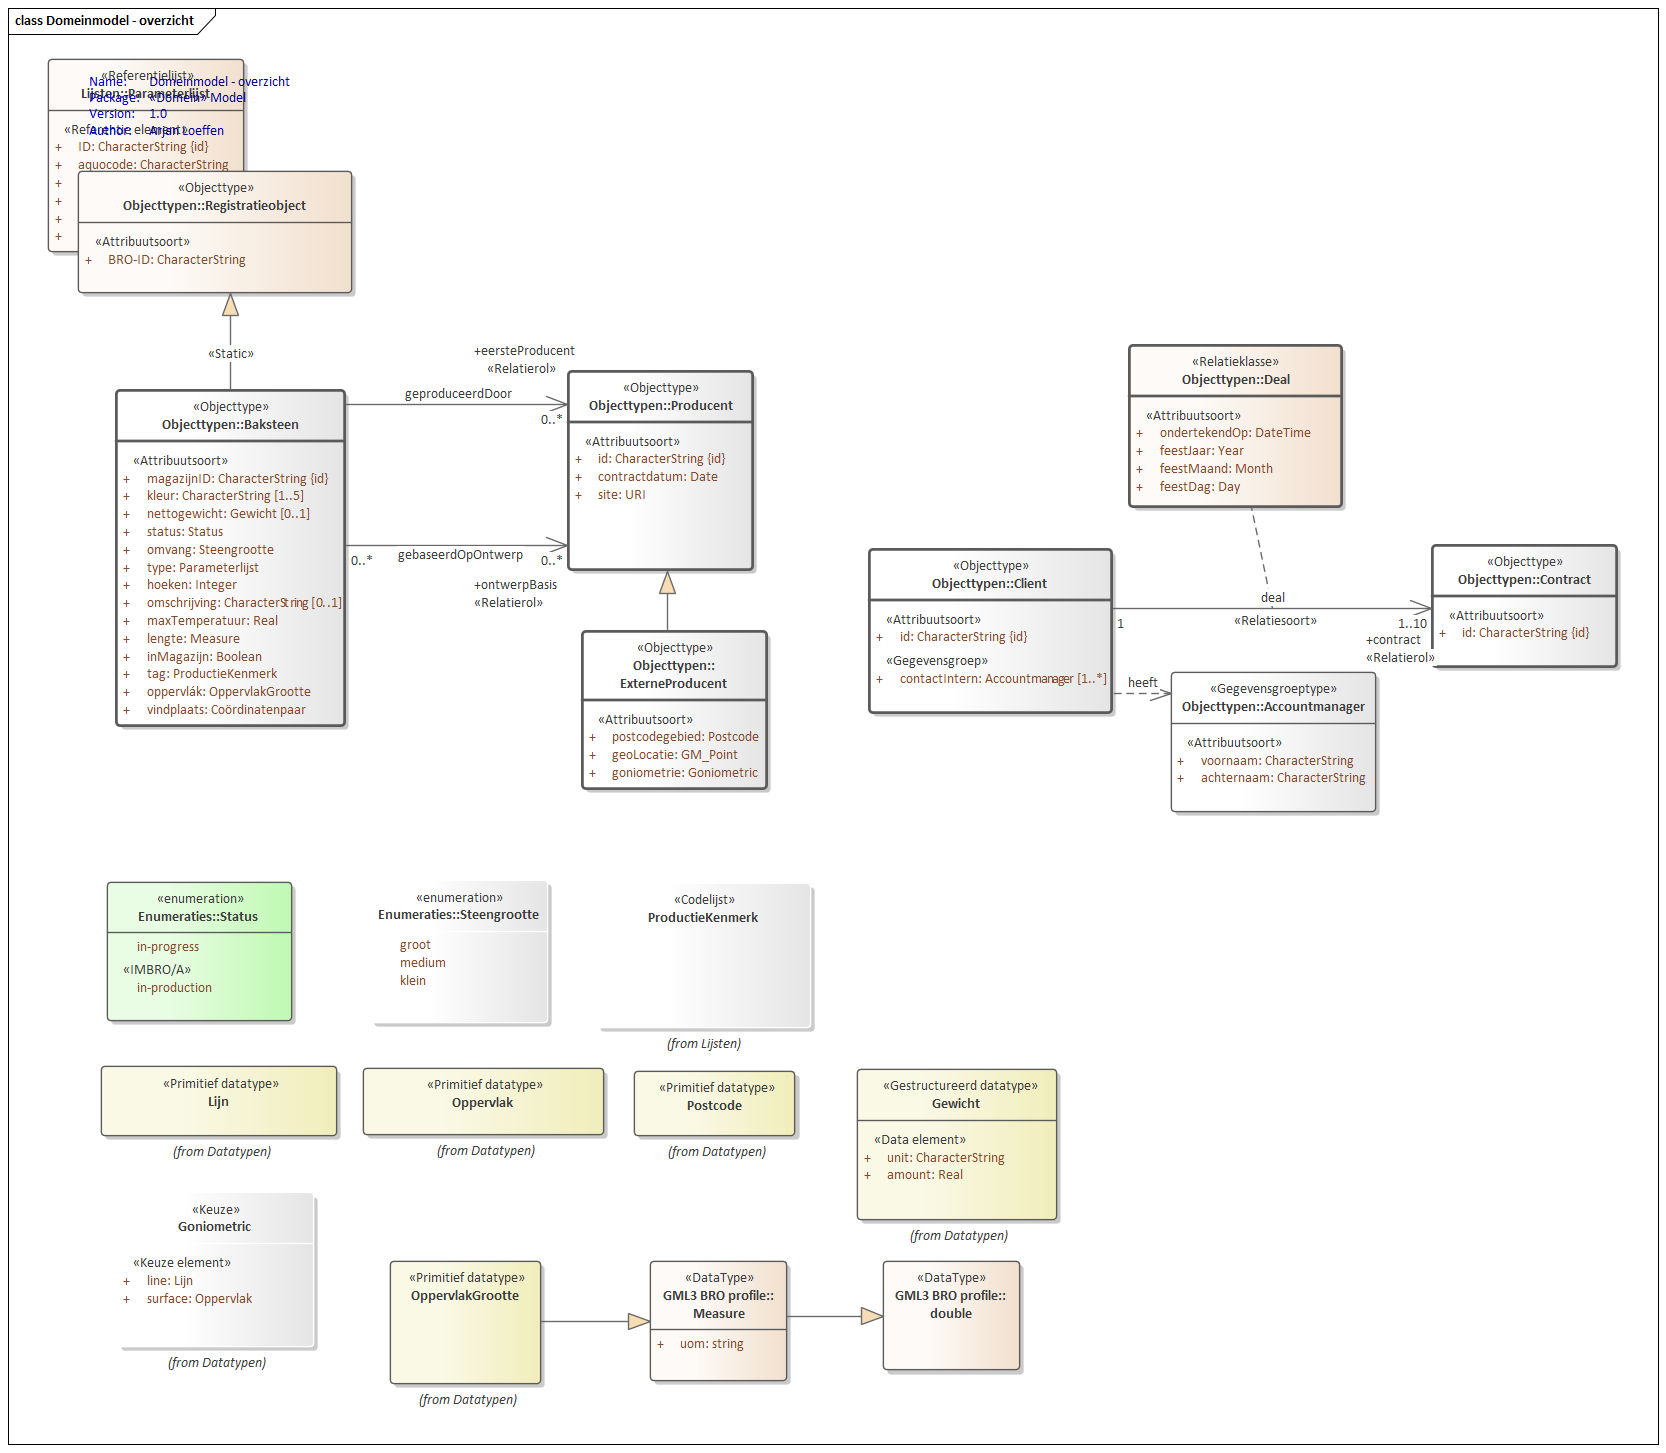
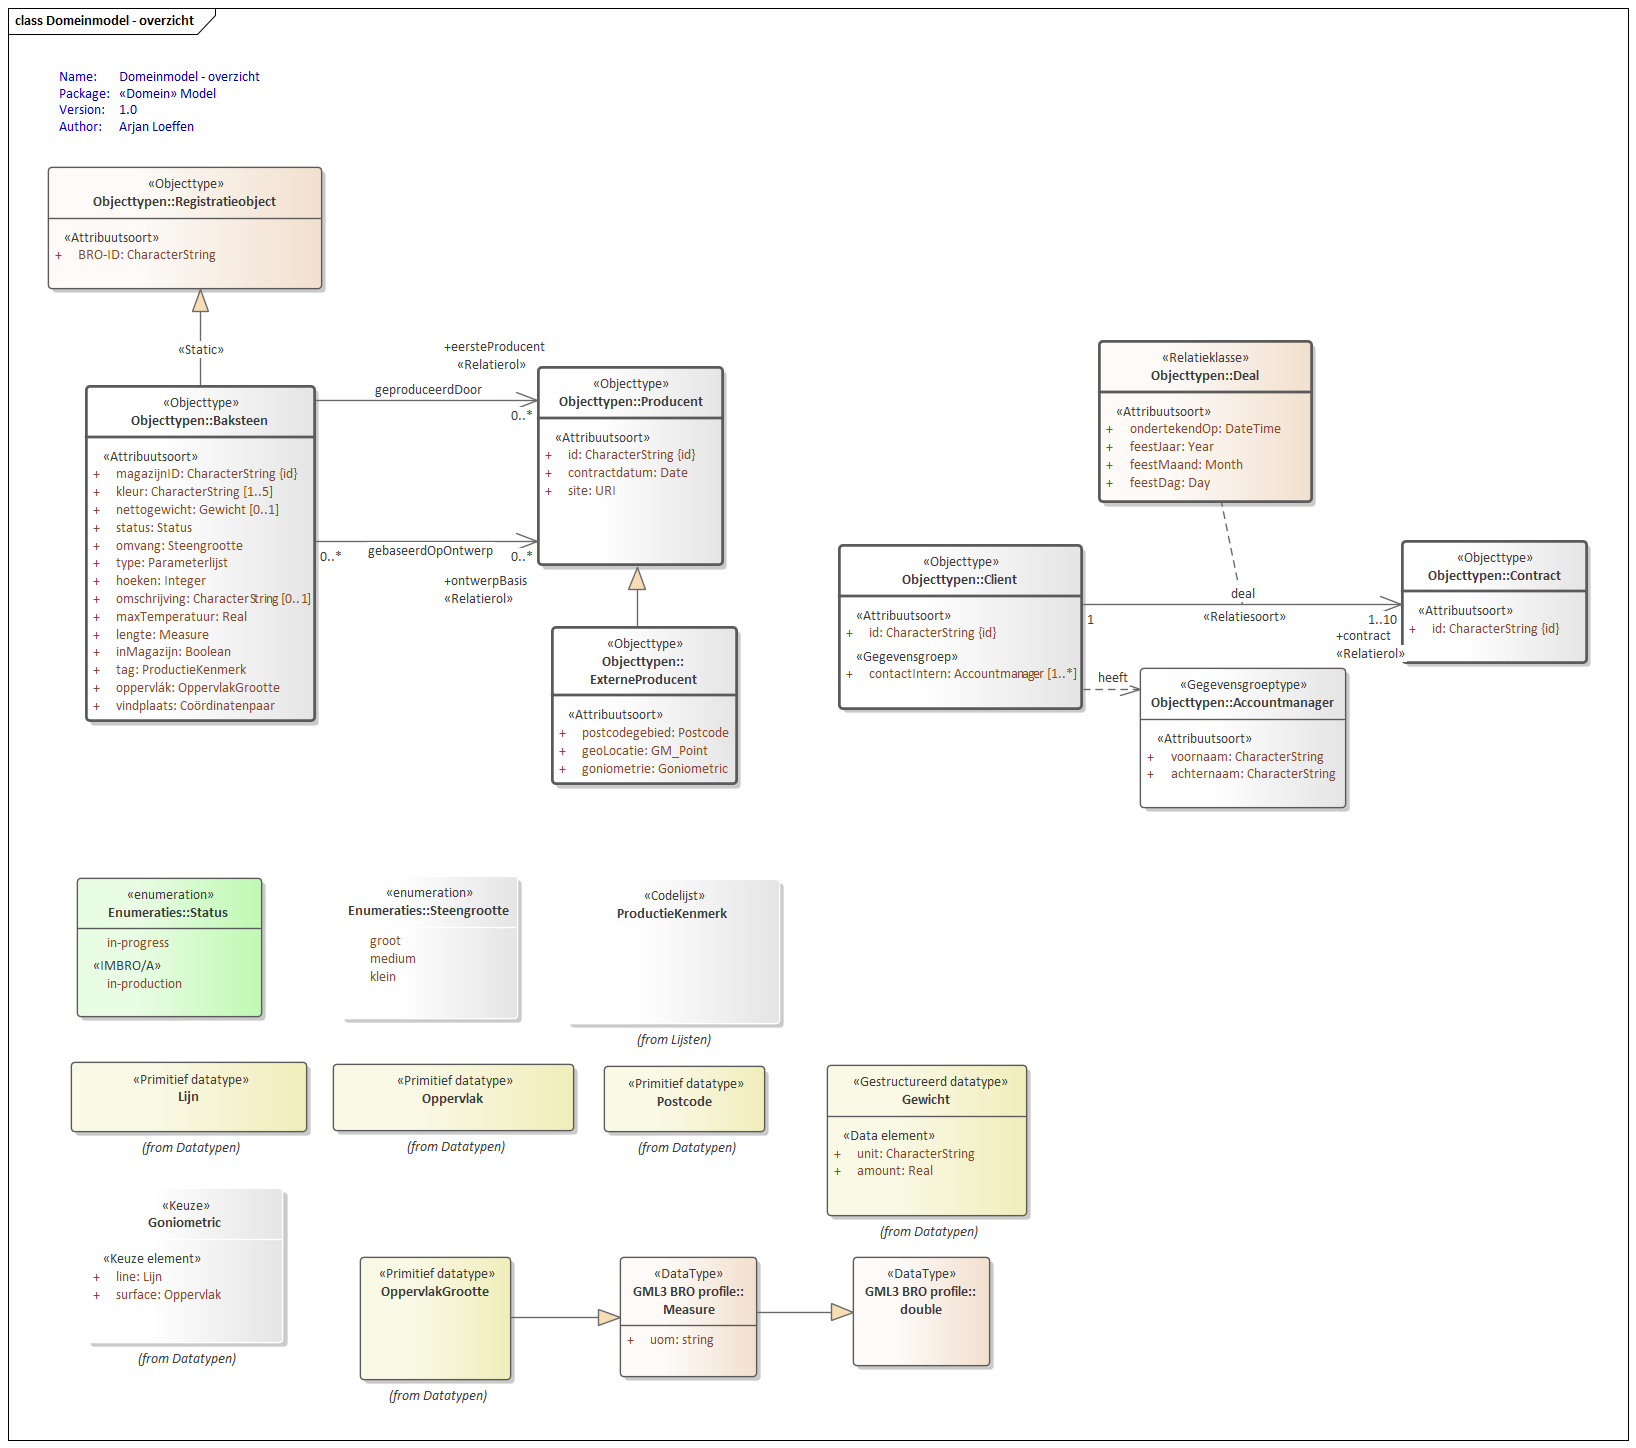
Conceptualmodel-SampleBaseSAMPLE-1.0.0-2-20130318-20200304-163814

diff --git a/data/SAMPLE-cat.msword.html b/data/SAMPLE-cat.msword.html
@@ -12,8 +12,8 @@
                 </style></head>
    <body>
       <p>Conceptual model/SampleBase (SAMPLE)/20130318</p>
-      <p>Imvertor: 1.59.3</p>
-      <p>Model release: Conceptualmodel-SampleBaseSAMPLE-1.0.0-2-20130318-20200304-115606</p>
+      <p>Imvertor: 1.59.2.20200304</p>
+      <p>Model release: Conceptualmodel-SampleBaseSAMPLE-1.0.0-2-20130318-20200304-163814</p>
       <hr>
       <section>
          <h1>Artikel 1 Definitie van registratieobject, entiteiten en attributen</h1>
@@ -54,17 +54,16 @@
             <h2>Het domeinmodel</h2>
             <section id="">
                <div class="imageinfo overview"><img src="Images/EAID_08513AA0_8A50_46c1_AD86_9B80D9A6AAE1.png" usemap="#imagemap-EAID_08513AA0_8A50_46c1_AD86_9B80D9A6AAE1" alt="Diagram Overzicht van alle constructies in dit conceptuele model."><map name="imagemap-EAID_08513AA0_8A50_46c1_AD86_9B80D9A6AAE1">
-                     <area shape="rect" alt="Registratieobject" coords="78,171,352,293" href="#graph_EAID_9E9289AB_19E6_48af_87FD_8BC9E0875C28">
-                     <area shape="rect" alt="ProductieKenmerk" coords="596,883,811,1028" href="#graph_EAID_4D78F0AD_88ED_44ef_9A76_163426CD74D1">
-                     <area shape="rect" alt="Steengrootte" coords="370,880,548,1023" href="#graph_EAID_65363897_E229_41fd_BE6F_E6B1BACAD458">
-                     <area shape="rect" alt="Accountmanager" coords="1171,672,1376,812" href="#graph_EAID_29D6B892_B943_494c_94C7_A13DB031E998">
-                     <area shape="rect" alt="Status" coords="107,882,292,1021" href="#graph_EAID_E86D21EE_58FD_4975_9CCB_AFF2434704A8">
-                     <area shape="rect" alt="ExterneProducent" coords="582,631,767,789" href="#graph_EAID_E2C93214_90E2_4151_B719_7BB8CDF8679F">
-                     <area shape="rect" alt="Baksteen" coords="116,390,345,726" href="#graph_EAID_CF7C4448_E50C_4c7a_B1D0_C4FCB2EB1814">
-                     <area shape="rect" alt="Producent" coords="568,371,753,570" href="#graph_EAID_04EED45C_4D30_41b9_83EE_65237E1F8E27">
-                     <area shape="rect" alt="Contract" coords="1432,545,1617,667" href="#graph_EAID_77987690_1141_457d_A33B_E1C7AA1EA812">
-                     <area shape="rect" alt="Client" coords="869,549,1112,713" href="#graph_EAID_DF955A82_3E49_4c9d_9C0C_74738600FE1B">
-                     <area shape="rect" alt="Parameterlijst" coords="48,59,244,252" href="#graph_EAID_44AEBC38_4744_431f_B31C_D809E3AA7D52"></map><p><b>Domeinmodel</b> — Overzicht van alle constructies in dit conceptuele model.
+                     <area shape="rect" alt="Registratieobject" coords="48,167,322,289" href="#graph_EAID_9E9289AB_19E6_48af_87FD_8BC9E0875C28">
+                     <area shape="rect" alt="ProductieKenmerk" coords="565,879,780,1024" href="#graph_EAID_4D78F0AD_88ED_44ef_9A76_163426CD74D1">
+                     <area shape="rect" alt="Steengrootte" coords="340,876,518,1019" href="#graph_EAID_65363897_E229_41fd_BE6F_E6B1BACAD458">
+                     <area shape="rect" alt="Accountmanager" coords="1140,668,1346,808" href="#graph_EAID_29D6B892_B943_494c_94C7_A13DB031E998">
+                     <area shape="rect" alt="Status" coords="77,878,262,1017" href="#graph_EAID_E86D21EE_58FD_4975_9CCB_AFF2434704A8">
+                     <area shape="rect" alt="ExterneProducent" coords="552,627,737,784" href="#graph_EAID_E2C93214_90E2_4151_B719_7BB8CDF8679F">
+                     <area shape="rect" alt="Baksteen" coords="86,386,315,721" href="#graph_EAID_CF7C4448_E50C_4c7a_B1D0_C4FCB2EB1814">
+                     <area shape="rect" alt="Producent" coords="538,367,723,565" href="#graph_EAID_04EED45C_4D30_41b9_83EE_65237E1F8E27">
+                     <area shape="rect" alt="Contract" coords="1402,541,1587,663" href="#graph_EAID_77987690_1141_457d_A33B_E1C7AA1EA812">
+                     <area shape="rect" alt="Client" coords="839,545,1082,709" href="#graph_EAID_DF955A82_3E49_4c9d_9C0C_74738600FE1B"></map><p><b>Domeinmodel</b> — Overzicht van alle constructies in dit conceptuele model.
                   </p>
                </div>
             </section>
@@ -437,10 +436,6 @@
                               <th>&nbsp;&nbsp;Type</th>
                               <td>Waardelijst uitbreidbaar</td>
                            </tr>
-                           <tr>
-                              <th>&nbsp;&nbsp;Identificerend gegeven</th>
-                              <td>ID</td>
-                           </tr>
                         </tbody>
                      </table>
                      
@@ -664,10 +659,6 @@
                            <tr>
                               <th>&nbsp;&nbsp;Type</th>
                               <td>Waardelijst uitbreidbaar</td>
-                           </tr>
-                           <tr>
-                              <th>&nbsp;&nbsp;Identificerend gegeven</th>
-                              <td></td>
                            </tr>
                         </tbody>
                      </table>
@@ -1196,51 +1187,9 @@
                   <tr>
                      <td>
                         
-                        
                         <p>De lijst met stoffen en andere eigenschappen die in een grondwatersamenstellingsonderzoek
                            bepaald worden.
                         </p>
-                        
-                        
-                        
-                        <ol>
-                           
-                           <li>
-                              <b>ID</b>: Het ID van de parameter zoals uitgegeven door het SIKB.<br>Dit is een persistent, identificerend volgnummer binnen de referentielijst. Voor nieuwe
-                              stoffen kan een nieuwe aquocode met een nieuw ID worden aangevraagd.
-                           </li>
-                           
-                           <li>
-                              <b>aquocode</b>: De Aquocode van de laboratoriumparameter.<br>De aquocode is een codering voor een stof die afgeleid is van de naam van de stof.
-                              Voor nieuwe stoffen kan een nieuwe aquocode worden aangevraagd waarbij ook een nieuw
-                              ID wordt aangemaakt.
-                           </li>
-                           
-                           <li>
-                              <b>CASnummer</b>: Het Chemical Abstracts Service nummer van de laboratoriumparameter.<br>Alleen chemische parameters hebben een CAS-nummer. Een Chemical Abstracts Service
-                              nummer is uniek voor elke parameter. Voor bv somparameters ontbreekt het CAS-nummer.
-                           </li>
-                           
-                           <li>
-                              <b>omschrijving</b>: De volledige naam van de parameter.
-                           </li>
-                           
-                           <li>
-                              <b>eenheid</b>: De eenheid waarin de parameter geregistreerd moet worden. De prefix, het voorvoegsel
-                              van de eenheid, mag worden aangepast als dit beter aansluit bij de hoogte van de gemeten
-                              waarde. Wanneer bijvoorbeeld ug/l in de parameterlijst staat, is mg/l ook toegestaan.
-                           </li>
-                           
-                           <li>
-                              <b>hoedanigheid</b>: De afgesproken hoedanigheid waarin de parameter wordt gerapporteerd.<br>De hoedanigheid is een nadere duiding van de eenheid, behorend bij een meetwaarde,
-                              bijvoorbeeld ten opzicht van 25 graden Celcius. De hoedanigheid kan ook de fractie
-                              van de parameter aangeven waarop de meetwaarde betrekking heeft, bijvoorbeeld de opgeloste
-                              fractie (bijv. na filtratie): nf. Bij stiksfofverbindingen wordt bijvoorbeeld aangegeven
-                              dat de waarde wordt uitgedrukt in stikstof in opgeloste fractie (Nnf).
-                           </li>
-                           
-                        </ol>
-                        
                         
                      </td>
                   </tr>
